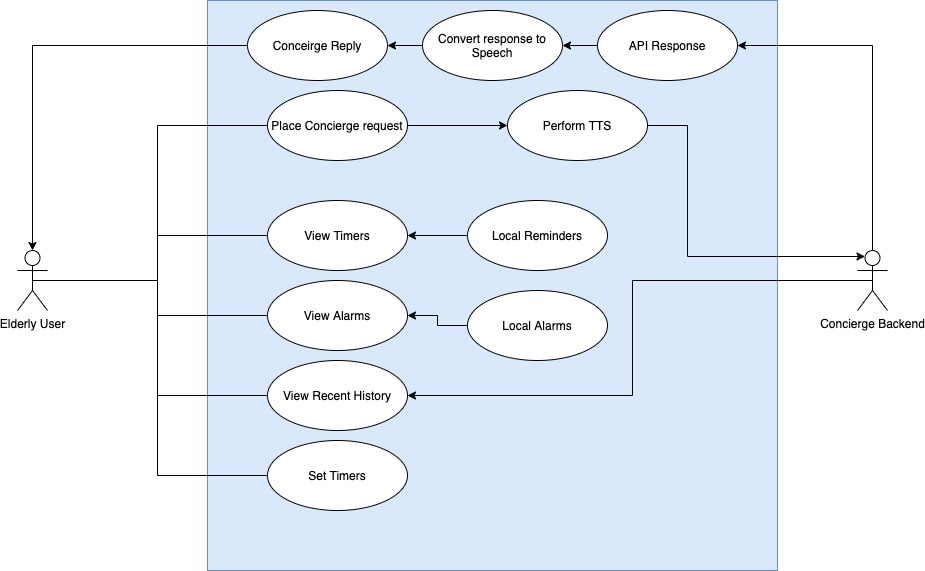
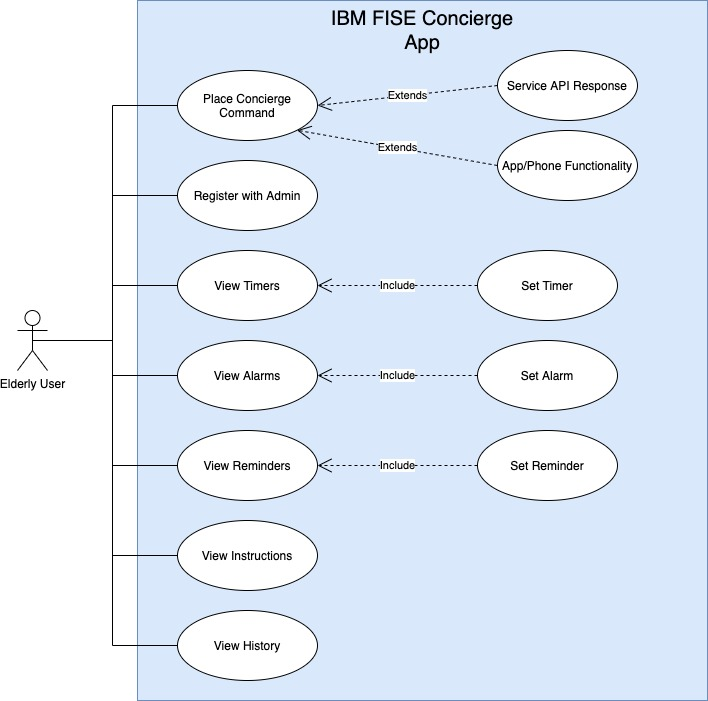
Update Use case diagrams

diff --git a/Submission Website/requirements.html b/Submission Website/requirements.html
@@ -270,13 +270,12 @@
 
     <section class="usecase-diagram">
         <h2>Use Case Diagrams</h2>
-        <p> We created three Use Case diagrams to illustrate how users would interact with our system. </p>
-        <p> We split the system into three distinct sections and created a Use Case diagram for each: one for Elderly
-            Users, the second for Admins and the final one for the Backend.</p>
+        <p> We created two Use Case diagrams to illustrate how users would interact with our system. </p>
+        <p> We split the system based on the two main user interactable components, the Concierge App and 
+            the admin website. We then created Use Case diagrams for each</p>
         <div class="usecase-diagram-div">
             <img class="usecase-diagram-img" src="assets/images/requirements/Elderly User Use Case Diagram.jpg"/>
             <img class="usecase-diagram-img" src="assets/images/requirements/Admin Use Case Diagram.jpg"/>
-            <img class="usecase-diagram-img" src="assets/images/requirements/Backend Use Case Diagram.jpg"/>
         </div>
     </section>
 
